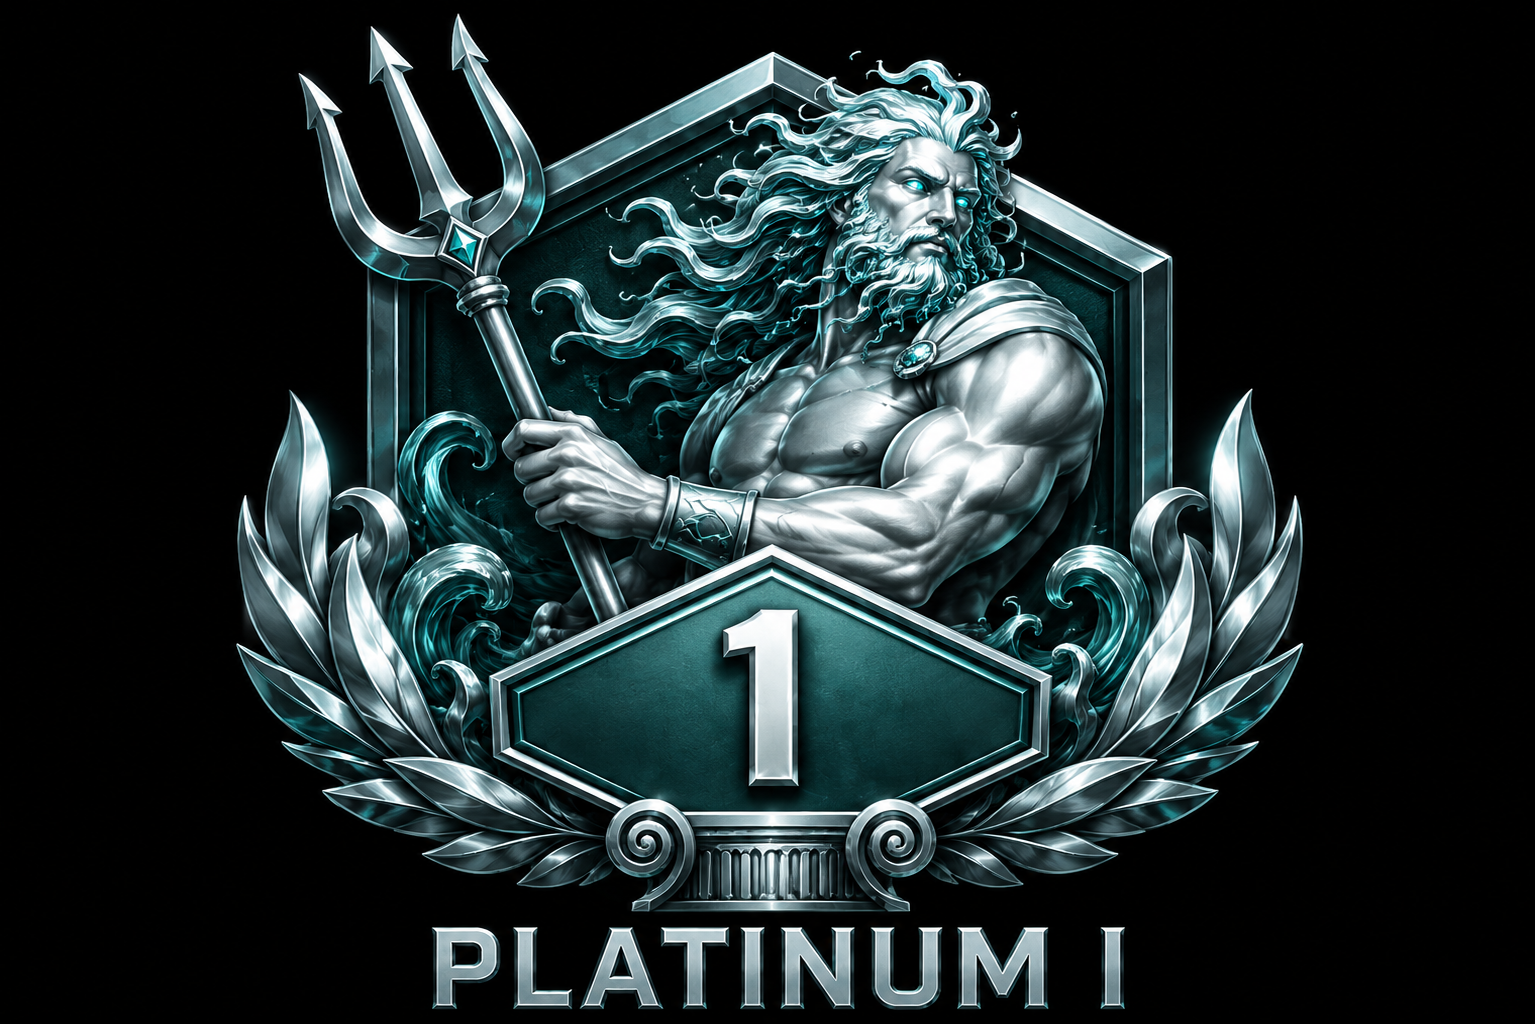
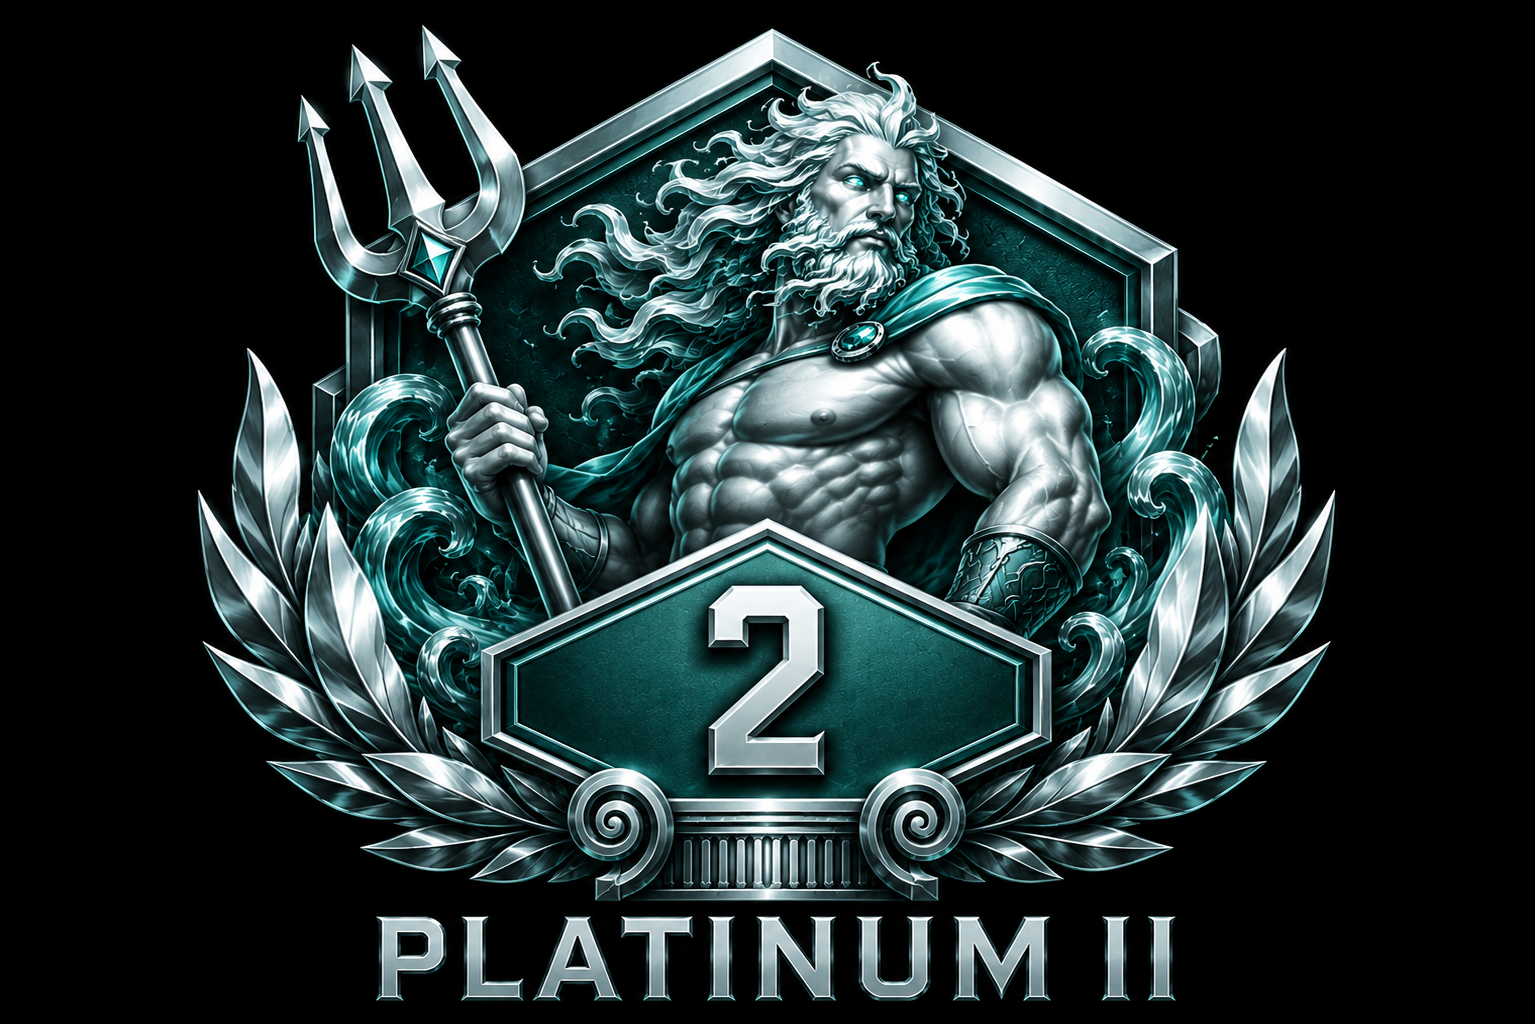
Fix platinum rank badge paths

diff --git a/src/App.jsx b/src/App.jsx
@@ -70,7 +70,7 @@ const RANK_BADGES = {
   "Gold II": "/ranks/gold2.png",
   "Gold III": "/ranks/gold3.png",
 
-  "Platinum I": "/ranks/platinum1.png",
+  "Platinum I": "/ranks/platinumone.png",
   "Platinum II": "/ranks/platinumtwo.png",
   "Platinum III": "/ranks/platinumthree.png",
 